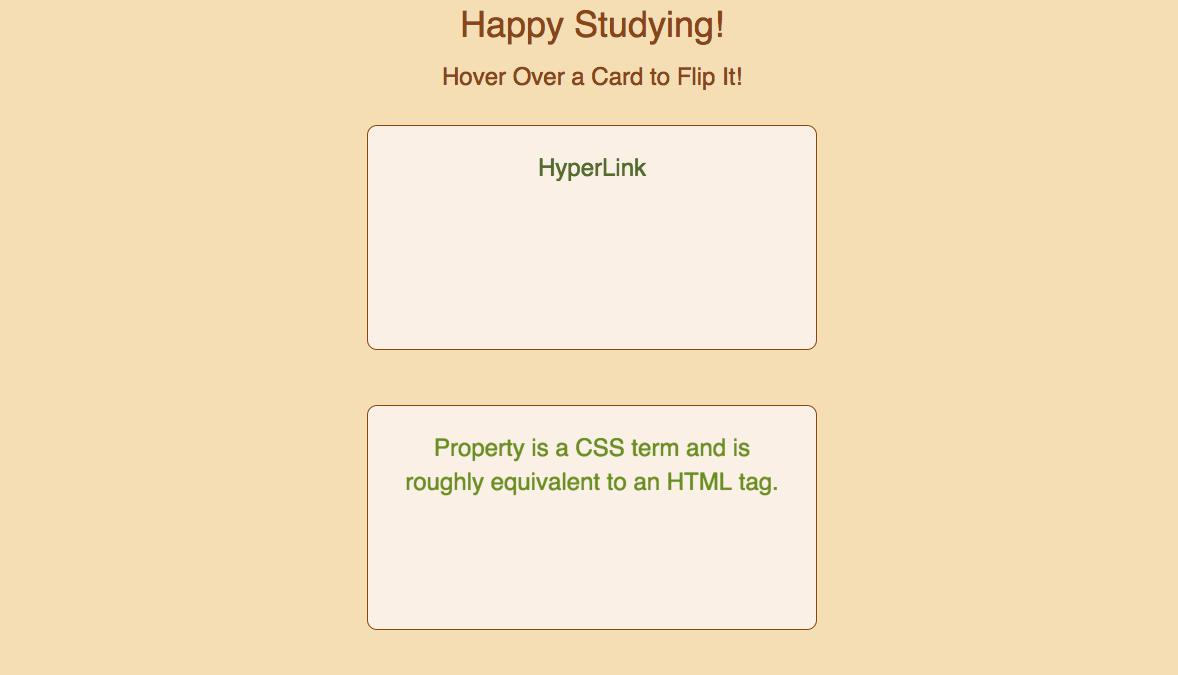
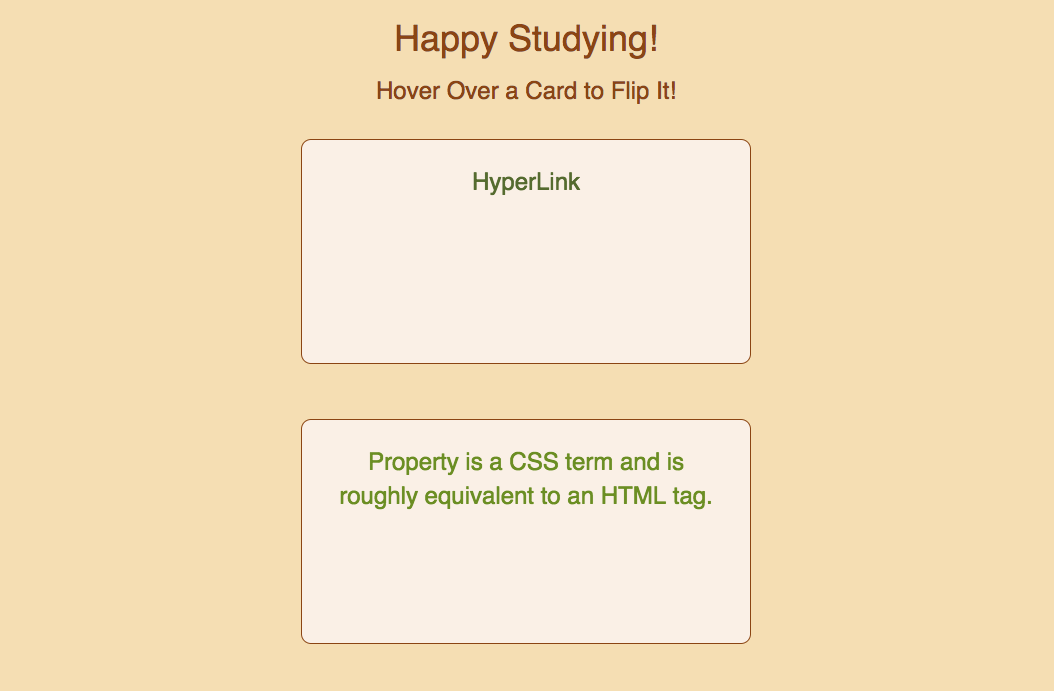
images

Changed region(s): [[0.2732, 0.5911, 0.7287, 0.9333], [0.2732, 0.1867, 0.7287, 0.5289], [0.3643, 0.0, 0.6376, 0.1556]]

diff --git a/index.html b/index.html
@@ -177,26 +177,26 @@
     <section class="container" id='projects'>
         <div class="row">
             <div class="col-lg-6 col-md-6" id='allergen-free'>
-                <a href="https://arcane-citadel-54908.herokuapp.com/" target="_blank"><img class="image-responsive" style="width:100% height:auto" src="./images/recipe_app.png" height="200px" width="400px"></a>
+                <a href="https://arcane-citadel-54908.herokuapp.com/" target="_blank"><img class="image-responsive"  src="./images/recipe_app.png" height="200px" width="400px"></a>
                 <h4>Allergen Free Recipes</h5>
                 <p class="description"> Allergen Free Recipes is an app that allows users to search for recipes that are free of common allergens. Users may also add their own allergen free recipes. It was built using Node.js/Express, Mongoose/MongoDB, Mocha/Chai, Javascript/jQuery, HTML5 and CSS3.</p>
                 <a class="btn btn-warning" href="https://arcane-citadel-54908.herokuapp.com/" target="_blank">Demo Allergen Free Recipe App</a>
             </div>
             <div class="col-lg-6 col-md-6" id='taste-kid'>
-                <a href="https://angiecrellin.github.io/TasteKidAPIHack/" target="_blank"><img class="image-responsive" style="width:100% height:auto" src="./images/bookSearch.png" height="200px" width="400px"></a>
+                <a href="https://angiecrellin.github.io/TasteKidAPIHack/" target="_blank"><img class="image-responsive"  src="./images/bookSearch.png" height="200px" width="400px"></a>
                 <h4>Find Your Next Journey</h5>
                 <p class="description">Find Your Next Journey is a book search app that allows users to find books or authors similar to others they enjoy. It includes a synopsis of each recommended book and sample searches for popular authors. It was built using AJAX, TasteKid API, Javascript/jQuery, HTML5 and CSS3.</p>
                 <a class="btn btn-warning" href="https://angiecrellin.github.io/TasteKidAPIHack/" target="_blank">Demo Find Your Next Journey App</a></button>
             </div>
             <div class="col-lg-6 col-md-6" id='my-chore-list'>
-                <a href="https://powerful-basin-22366.herokuapp.com/" target="_blank"><img class="image-responsive" style="width:100% height:auto" src="./images/mychorelistapp.png" height="200px" width="400px"></a>
+                <a href="https://powerful-basin-22366.herokuapp.com/" target="_blank"><img class="image-responsive"  src="./images/mychorelistapp.png" height="200px" width="400px"></a>
                 <h4>My Chore List</h5>
                 <p class="description">My Chore List is an app that allows parents to create a list of chores including the expected time to complete each task. Children may check off the chores as they are completed. A count keeps track of how many chores are left to complete that day. It was built using React.js/Redux.js, Javascript,
                     <br> HTML5 and CSS3.</p>
                 <a class="btn btn-warning" href="https://powerful-basin-22366.herokuapp.com/" target="_blank">Demo My Chore List App</a></button>
             </div>
             <div class="col-lg-6 col-md-6" id='study-app'>
-                <a href="https://mysterious-forest-43283.herokuapp.com/" target="_blank"><img class="image-responsive" style="width:100% height:auto" src="./images/study_app.png" height="200px" width="400px"></a>
+                <a href="https://mysterious-forest-43283.herokuapp.com/" target="_blank"><img class="image-responsive" src="./images/study_app.png" height="200px" width="400px"></a>
                 <h4>Study App</h5>
                 <p class="description">This study app allows users to learn terms and definitions using flashcards. The terms are on the front of the card and the definitions are on the back. A user can hover over each card to flip it and reveal the definition. It was built using Node.js/Express, Mongoose/MongoDB, React.js/Redux.js, Javascript, HTML5 and CSS3.
                 </p>

diff --git a/css/style.css b/css/style.css
@@ -280,9 +280,15 @@ ul {
 
 #projects {
 	margin: 0 auto;
-	padding: 10rem;
+	// padding: 10rem;
 	text-align: center;
 }
+
+.image-responsive {
+	width: 100%;
+	height: auto;
+}
+
 .image-responsive:hover {
 	opacity: 0.8;
 }
@@ -390,6 +396,10 @@ footer p {
 	
 	.btn  {
 		margin: 0 auto;
+	}
+	.image-responsive {
+		margin-left: auto;
+		margin-right: auto;
 	}
 }
 					
